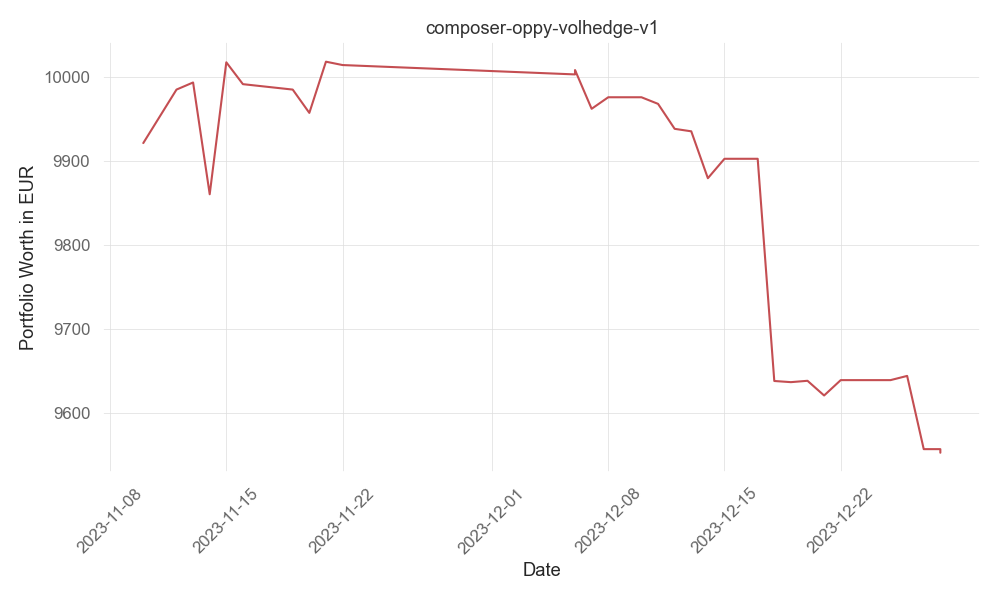
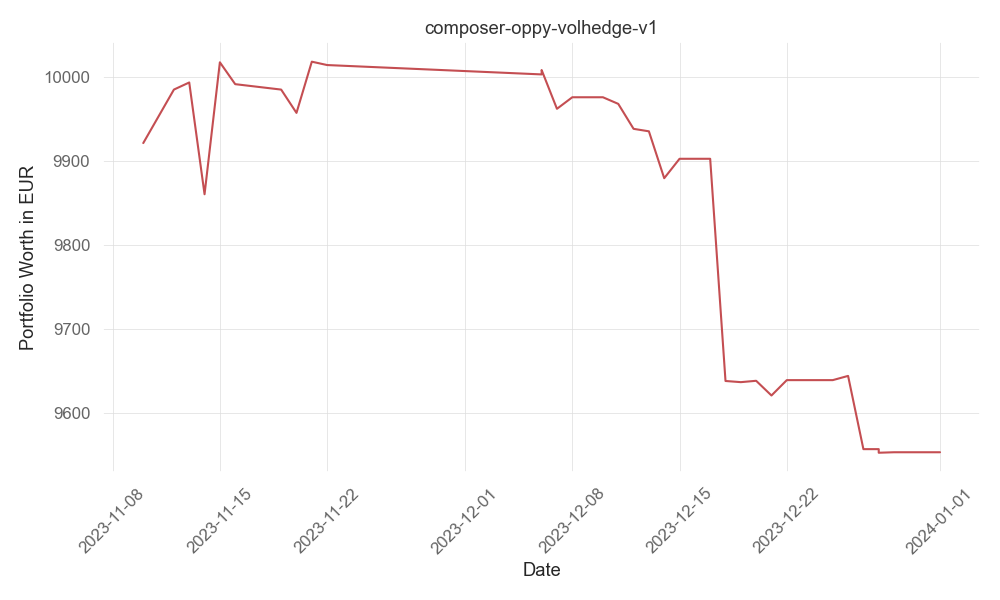
nicename fix

diff --git a/tradingbot-website-generator/src/getBotData.py b/tradingbot-website-generator/src/getBotData.py
@@ -59,9 +59,10 @@ def getBotData():
     db = SessionLocal()
     allBots = db.query(Bot).all()
     # for each bot get the portfolioworths
-    allBotNames = [(bot.name, bot.nicename) for bot in allBots]
+    allBotNames = [bot.name for bot in allBots]
+
     allBotStats = dict()
-    for botname, nicename in allBotNames:
+    for botname in allBotNames:
         portfolioWorths = (
             db.query(PortfolioWorths.timestamp, PortfolioWorths.worth)
             .filter(PortfolioWorths.bot == botname)
@@ -168,6 +169,7 @@ def getBotData():
 
         # portfolioTable
         portfolio = allBots[allBotNames.index(botname)].portfolio
+        nicename = allBots[allBotNames.index(botname)].nicename
         portfolio = pd.DataFrame(portfolio.items(), columns=["Ticker", "Qty"])
         portfolio["Crnt Price"] = portfolio["Ticker"].apply(getPrice)
         portfolio["Worth (USD)"] = round(portfolio["Crnt Price"] * portfolio["Qty"], 2)

diff --git a/tradingbot-website-generator/hugo/content/english/blog/simplesma-v1.md b/tradingbot-website-generator/hugo/content/english/blog/simplesma-v1.md
@@ -1,5 +1,5 @@
 ---
-date: "2023-12-29" # 2021-07-14
+date: "2024-01-02" # 2021-07-14
 title: "simplesma-v1"
 image: "images/plots/simplesma-v1.png"
 author: "justin-guese"
@@ -18,7 +18,7 @@ created in basebot
 | Metric | Value |
 | --- | --- |
 | Return % p.a. | 0 |
-| Days active | 43 |
+| Days active | 47 |
 | Starting capital | 10000.0 |
 | Current capital | 10000.0€ |
 
@@ -59,7 +59,7 @@ created in basebot
     </tr>
     <tr>
       <th>End Period</th>
-      <td>2023-12-28</td>
+      <td>2024-01-01</td>
     </tr>
     <tr>
       <th>Risk-Free Rate</th>
@@ -223,6 +223,22 @@ created in basebot
     </tr>
   </thead>
   <tbody>
+    <tr>
+      <td>01.01.2024</td>
+      <td>10000.0€</td>
+    </tr>
+    <tr>
+      <td>31.12.2023</td>
+      <td>10000.0€</td>
+    </tr>
+    <tr>
+      <td>30.12.2023</td>
+      <td>10000.0€</td>
+    </tr>
+    <tr>
+      <td>29.12.2023</td>
+      <td>10000.0€</td>
+    </tr>
     <tr>
       <td>28.12.2023</td>
       <td>10000.0€</td>
